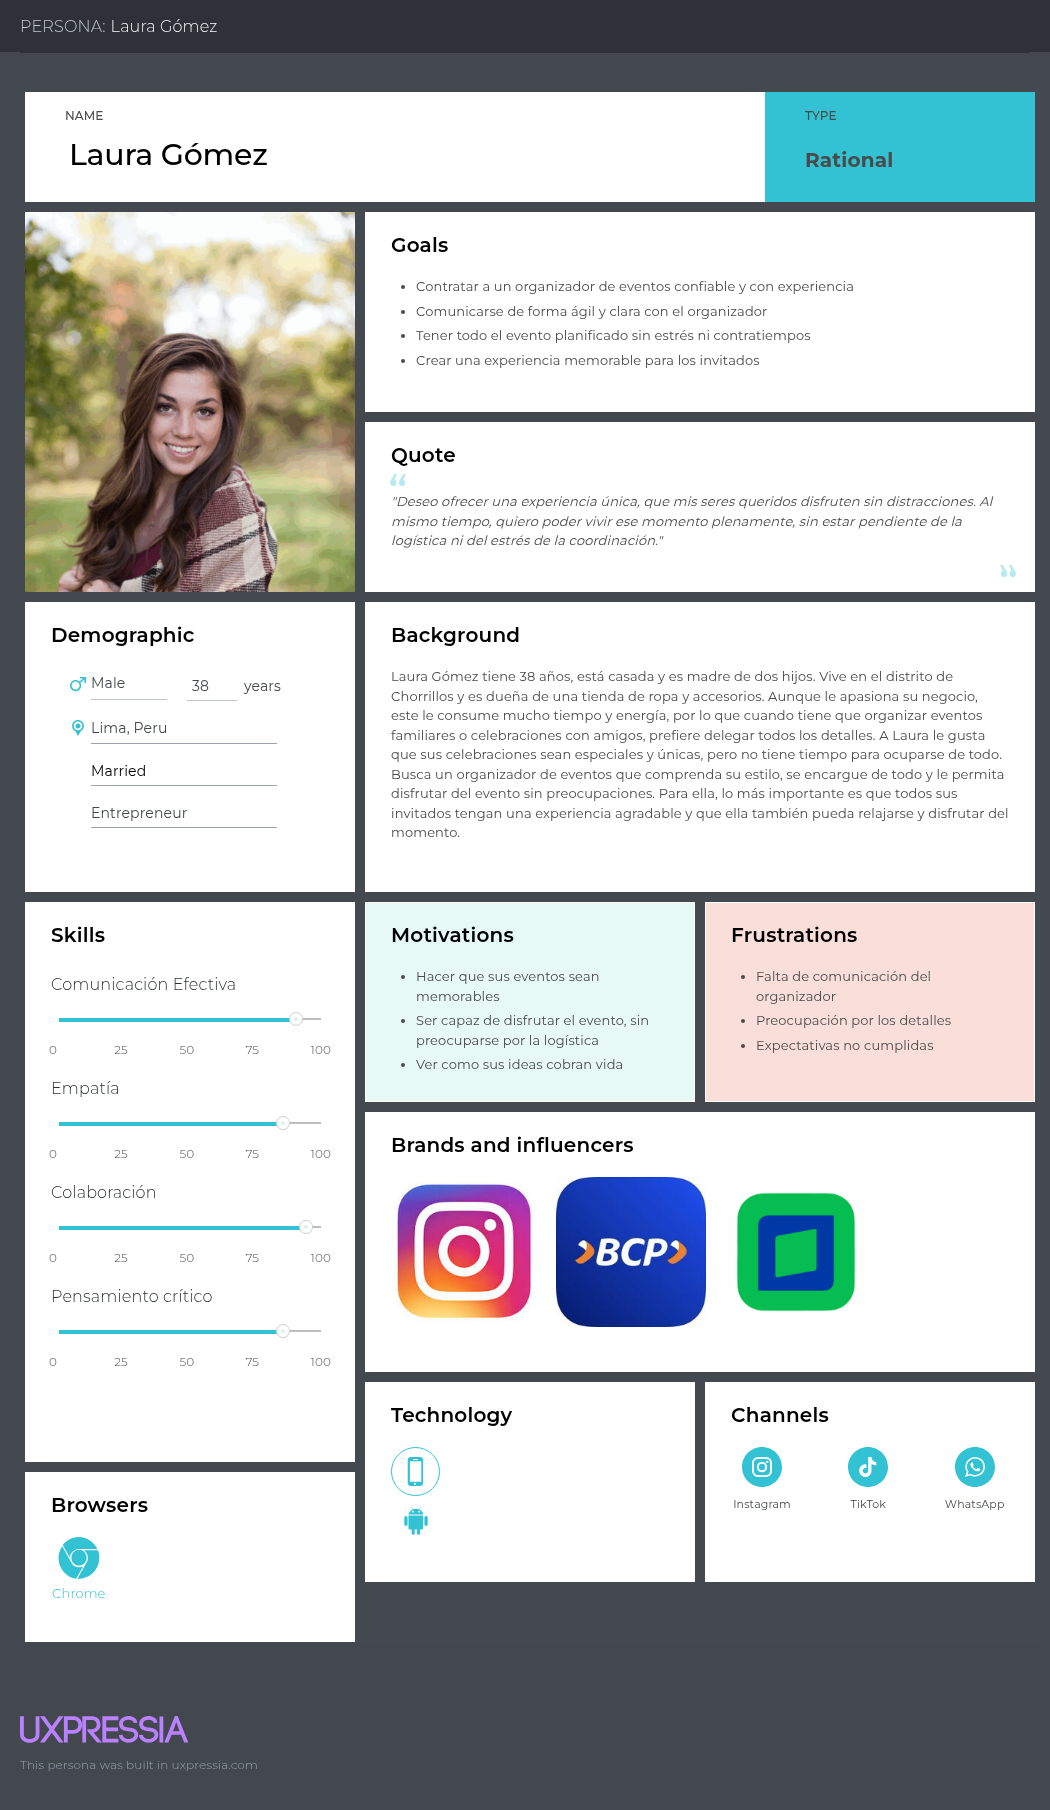
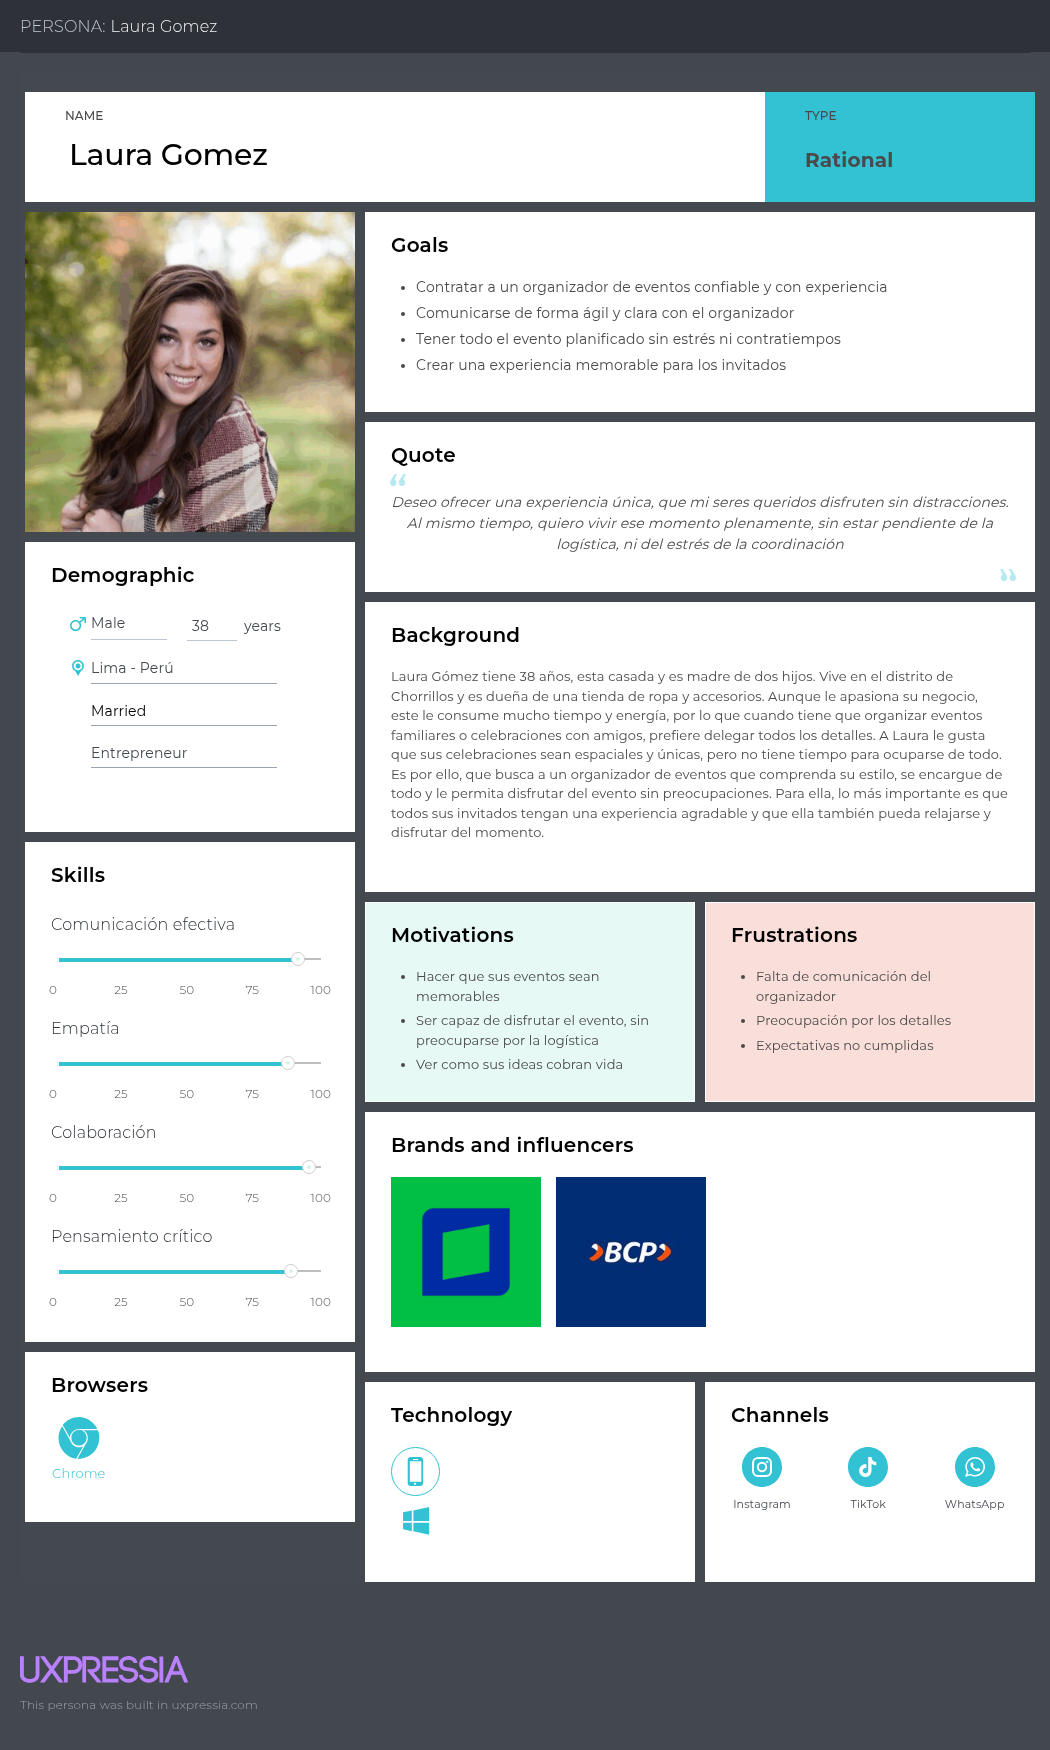
fix(2.3.1): fix brands and influencers section into both user persona

Changed region(s): [[0.0, 0.0617, 1.0, 0.9874]]

diff --git a/docs/chapter-II.md b/docs/chapter-II.md
@@ -539,12 +539,12 @@ En esta sección se presentarán los User Personas de cada segmento objetivo. Es
 
 **Segmento Objetivo: Organizadores de eventos sociales no masivos**
 
-![User Persona 1](../assets/chapter-II/user-persona-organizador.png)
+![user-persona-organizer](../assets/chapter-II/user-persona-organizador.png)
 
  <br>
 
 **Segmento Objetivo: Anfitriones de eventos**
-![User Persona 2](../assets/chapter-II/user-persona-anfitrion.png)
+![user-persona-host](../assets/chapter-II/user-persona-anfitrion.png)
 
 ### 2.3.2. User Task Matrix
 
